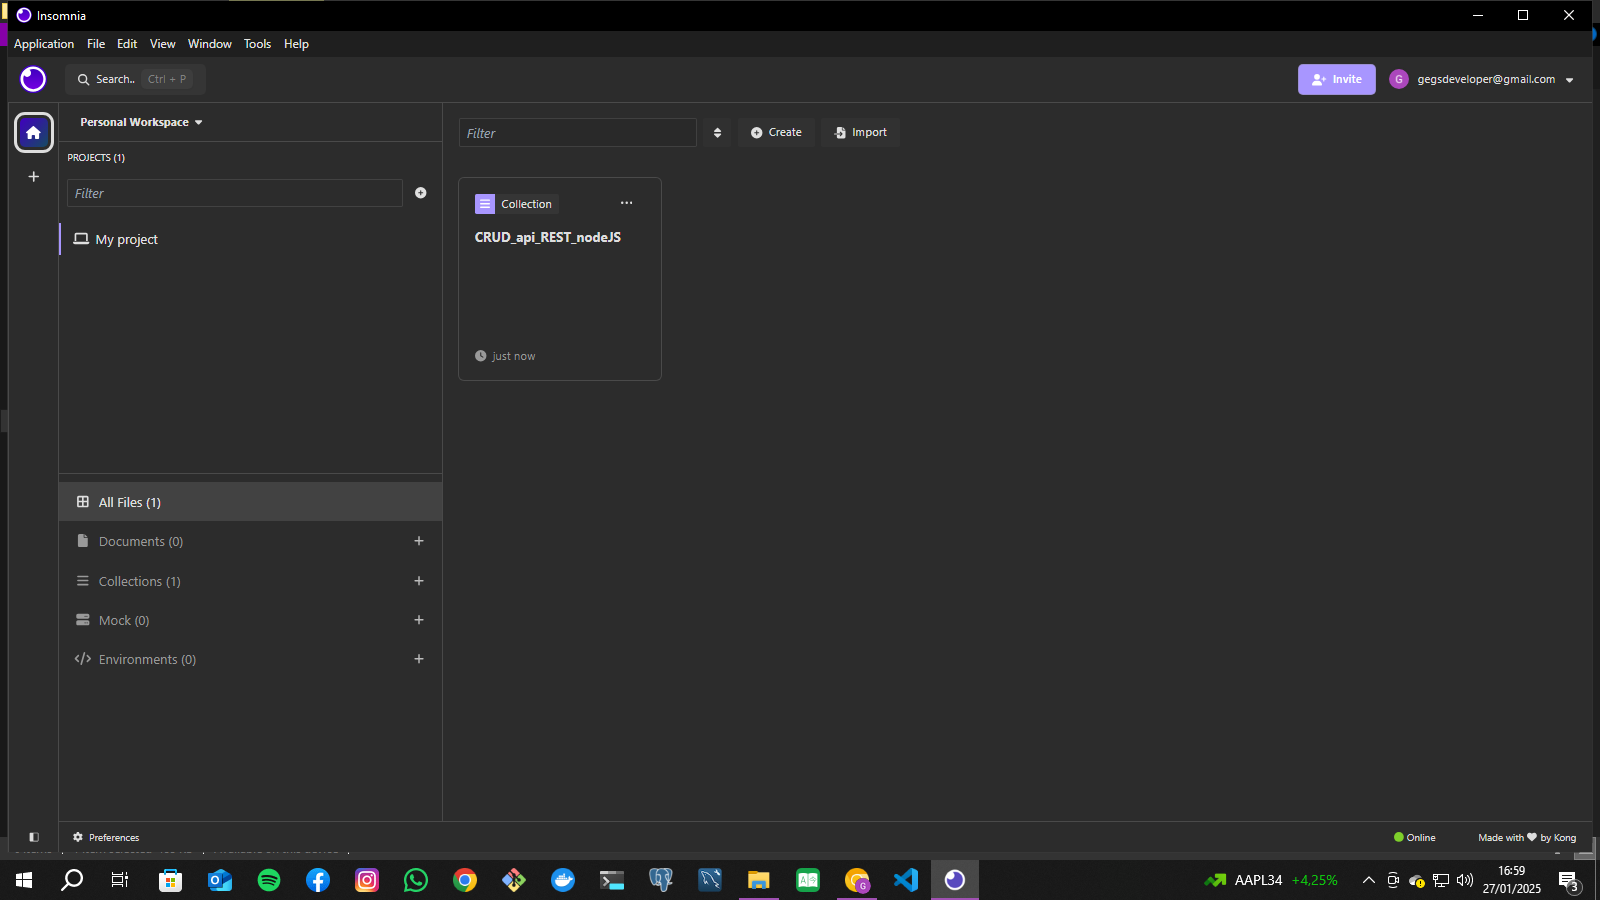
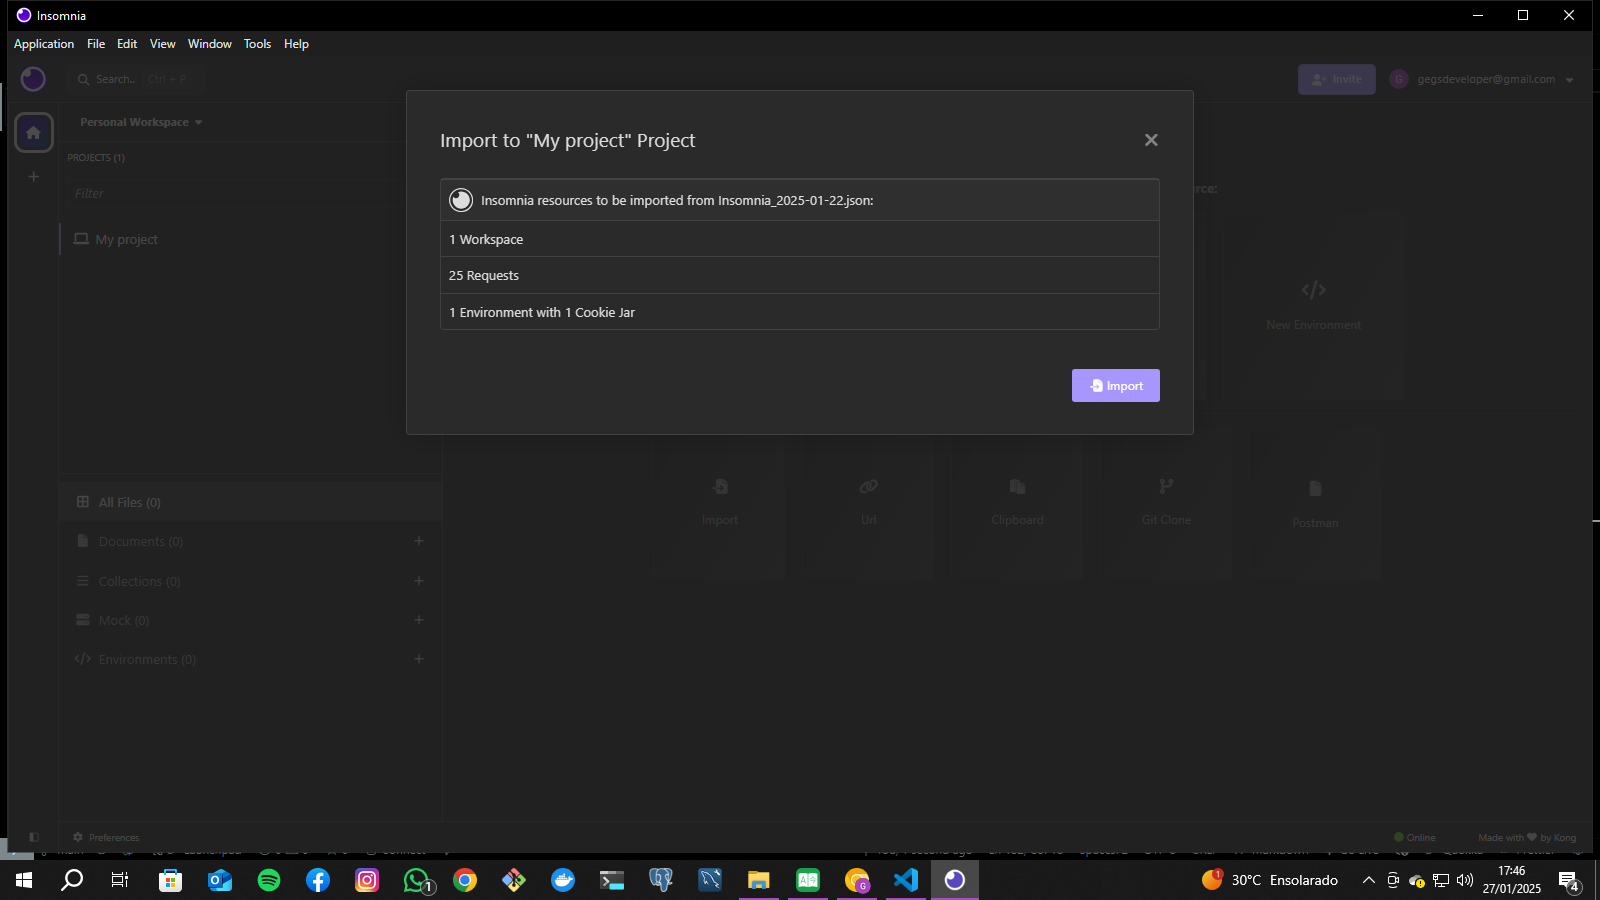
Using import insomnia readme

diff --git a/README.md b/README.md
@@ -82,11 +82,14 @@ on top of busboy for maximum efficiency.
 <img alt="NodeJS" src="https://img.shields.io/badge/Node.js-43853D?logo=node.js&logoColor=white&style=for-the-badge" /> 
 NodeJS is a server-side JavaScript code execution environment. It is used to create web applications, automation programs, 
 and command-line tools.
-
+<br><br>
 <br>
 <img alt="MS SQL Server" src="https://img.shields.io/badge/Microsoft_SQL_Server-CC2927?logo=microsoft-sql-server&logoColor=white&style=for-the-badge" /> 
 Database open source relational database management system used in most free applications to manage their databases. MySQL uses SQL (Structure Query Language), which is the most popular language for inserting, accessing and managing content stored in 
 a database.
+
+
+
 
 <br>
 <img alt="Docker" src="https://img.shields.io/badge/Docker-2496ED?logo=docker&logoColor=white&style=for-the-badge" /> 
@@ -160,9 +163,35 @@ Or download the zip file and unzip it into a folder.
 ### Using the API
 
 1 - Install Insomnia Download: https://insomnia.rest/download
-    Then install and login
-    Now locate the + symbol next to the filter field to create a new project.
+
+    - Then install and login.
+
+    - Now locate the + symbol, next to the filter field to create a new project.
+
     <img src="https://github.com/geraldogenuca/CRUD_api_REST_nodeJS/blob/main/public/uploads/insomnia01.png">
+    
+    - Locate and click on Icon Import.
+
+    <img src="https://github.com/geraldogenuca/CRUD_api_REST_nodeJS/blob/main/public/uploads/insomnia02.png">
+
+    - Click on Choose Files, and locate the project folder and locate the file "Insomnia_2025-01-22.json", and load the file.
+
+    <img src="https://github.com/geraldogenuca/CRUD_api_REST_nodeJS/blob/main/public/uploads/insomnia03.png">
+    <img src="https://github.com/geraldogenuca/CRUD_api_REST_nodeJS/blob/main/public/uploads/insomnia04.png">
+
+    - Click Scan, then import.
+
+    <img src="https://github.com/geraldogenuca/CRUD_api_REST_nodeJS/blob/main/public/uploads/insomnia05.png">
+    <img src="https://github.com/geraldogenuca/CRUD_api_REST_nodeJS/blob/main/public/uploads/insomnia06.png">
+
+    - Then click Import, it will look like in the photo.
+
+    <img src="https://github.com/geraldogenuca/CRUD_api_REST_nodeJS/blob/main/public/uploads/insomnia07.png">
+
+    - Open the project collection and have all end-points, as shown in the respective photos below.
+  
+    <img src="https://github.com/geraldogenuca/CRUD_api_REST_nodeJS/blob/main/public/uploads/insomnia08.png">
+    <img src="https://github.com/geraldogenuca/CRUD_api_REST_nodeJS/blob/main/public/uploads/insomnia09.png">
 
 
 ### Project Structure
